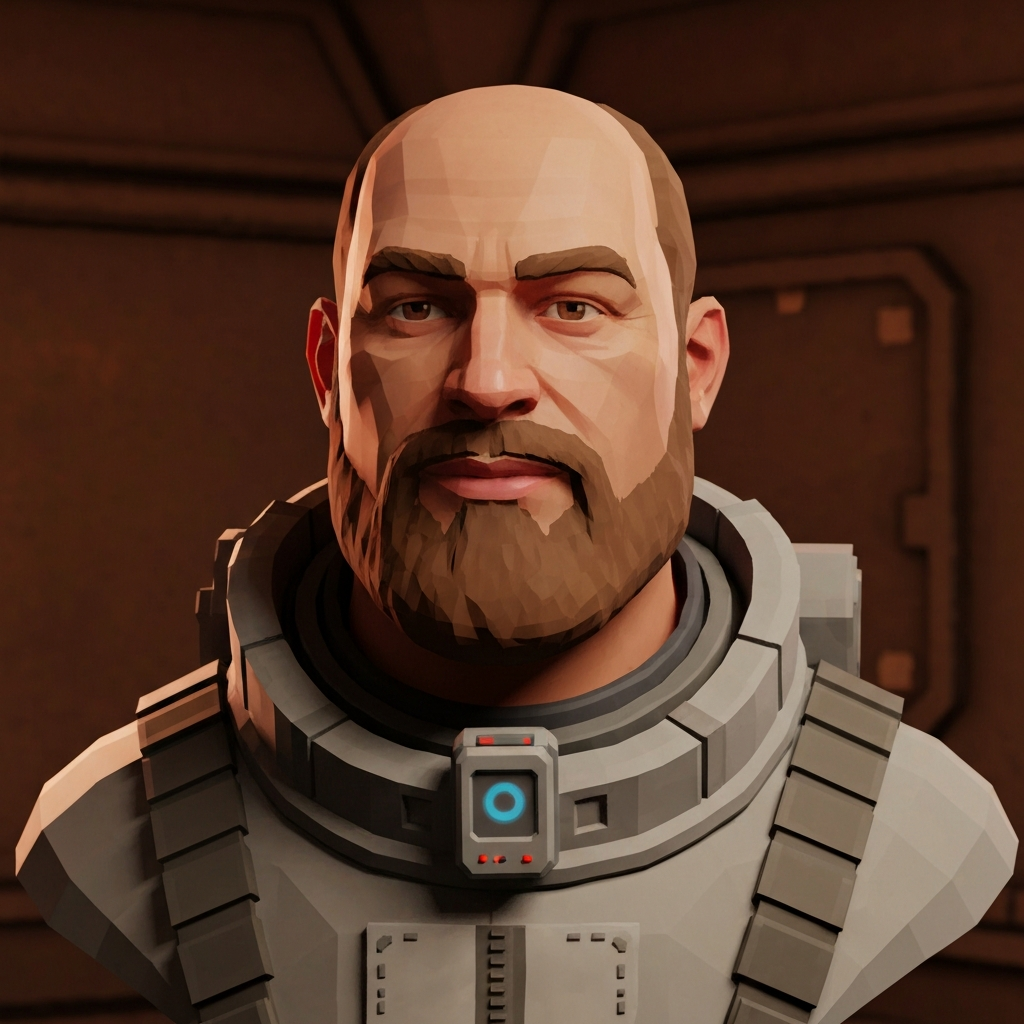
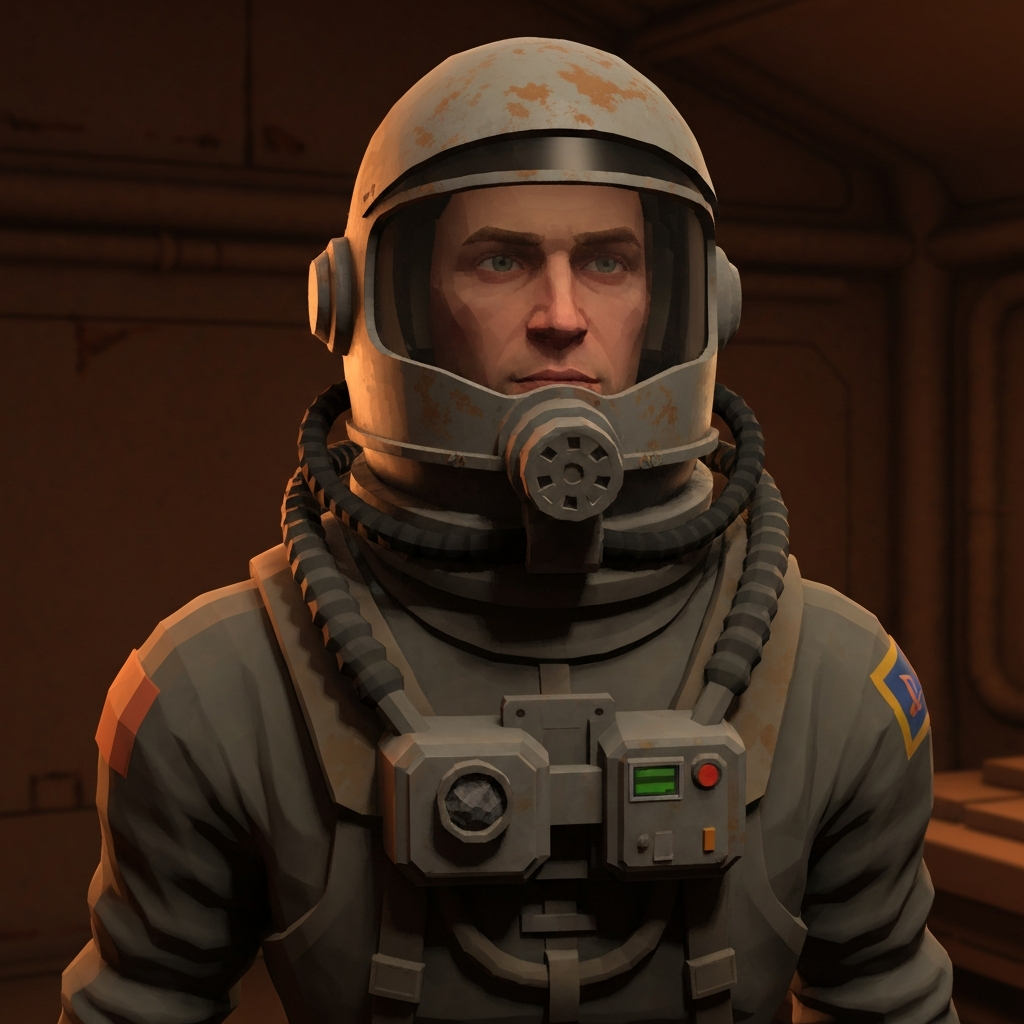
feat: all 4 crew portraits (m7-1) — filter-safe helmet framing
Imagen reliably declined Maya + Nadia under the helmet-off / person-portrait
framing (policy). Reframed buildPortraitPrompt as 'video-game character concept
art, EVA helmet visor-up' led by ROLE (not crew name) + neutralized the look
cues to gear — all 4 now generate. The crew panel shows real faces instead of
silhouettes for half the party. Regenerated john/frank too for consistency.
Tests updated to the new prompt shape.

diff --git a/src/genai/portraits.ts b/src/genai/portraits.ts
@@ -37,26 +37,29 @@ export const CREW_FACETS: CrewFacet[] = [
     id: "maya",
     name: "Maya",
     role: "Engineer",
-    look: "dark hair tied back, a tool-harness over the suit, an engineer's focused expression",
+    look: "a tool-harness over the suit, grease-smudged plating, a multitool clipped at the collar",
   },
   {
     id: "frank",
     name: "Frank",
     role: "Geologist",
-    look: "broad bearded man, sun-darkened skin, sample-scanner clipped to collar",
+    look: "a rugged dust-caked suit, a sample-scanner clipped to the collar, rock-core tubes on the chest rig",
   },
   {
     id: "nadia",
     name: "Nadia",
     role: "Botanist",
-    look: "close-cropped hair, a faint green grow-light cast, a botanist's quiet resolve",
+    look: "a faint green grow-light cast on the visor, seed-vials on the suit, a soil-probe at the belt",
   },
 ];
 
 export function buildPortraitPrompt(facet: CrewFacet): string {
+  // Framed as game character concept art with the helmet on / visor up — a
+  // stylized game asset, not a photo of a person (which keeps the image model's
+  // person-generation policy from declining, while staying on-theme for EVA crew).
   return (
-    `Portrait of ${facet.name}, the ${facet.role} of a Mars colonization rover crew — ` +
-    `${facet.look}, wearing a worn pressurized EVA suit with the helmet off, ${SIGNATURE_STYLE} ${STYLE_NEGATIVE}`
+    `Video-game character concept art of the ${facet.role} of a Mars colonization rover crew, ` +
+    `wearing a worn pressurized EVA helmet with the visor up — ${facet.look}. ${SIGNATURE_STYLE} ${STYLE_NEGATIVE}`
   );
 }
 

diff --git a/tests/unit/genai-portraits.test.ts b/tests/unit/genai-portraits.test.ts
@@ -7,17 +7,20 @@ describe("genai portraits — pure prompt + orchestration", () => {
     expect(CREW_FACETS.map((f) => f.id).sort()).toEqual(["frank", "john", "maya", "nadia"]);
   });
 
-  it("builds a prompt that names the crew member, role, and the locked style", () => {
+  it("builds a prompt with the role, the helmet framing, and the locked style", () => {
+    // The prompt deliberately leads with the ROLE (not the crew name) + a
+    // helmet-on framing — naming a person tripped the image model's policy.
     const p = buildPortraitPrompt(CREW_FACETS[0]);
-    expect(p).toContain("John");
     expect(p).toContain("Commander");
+    expect(p).toContain("helmet");
     expect(p).toContain("PS1-era");
   });
 
   it("generates one portrait per facet, skipping declined images", async () => {
-    const onlyEven: GenerateImageFn = async (prompt) =>
-      prompt.includes("Maya") ? null : new Uint8Array([1, 2, 3]);
-    const out = await generatePortraits(onlyEven);
+    // Key off the role (the prompt no longer contains the crew name).
+    const declineEngineer: GenerateImageFn = async (prompt) =>
+      prompt.includes("Engineer") ? null : new Uint8Array([1, 2, 3]);
+    const out = await generatePortraits(declineEngineer);
     expect(out).toHaveLength(CREW_FACETS.length - 1);
     expect(out.find((p) => p.id === "maya")).toBeUndefined();
   });